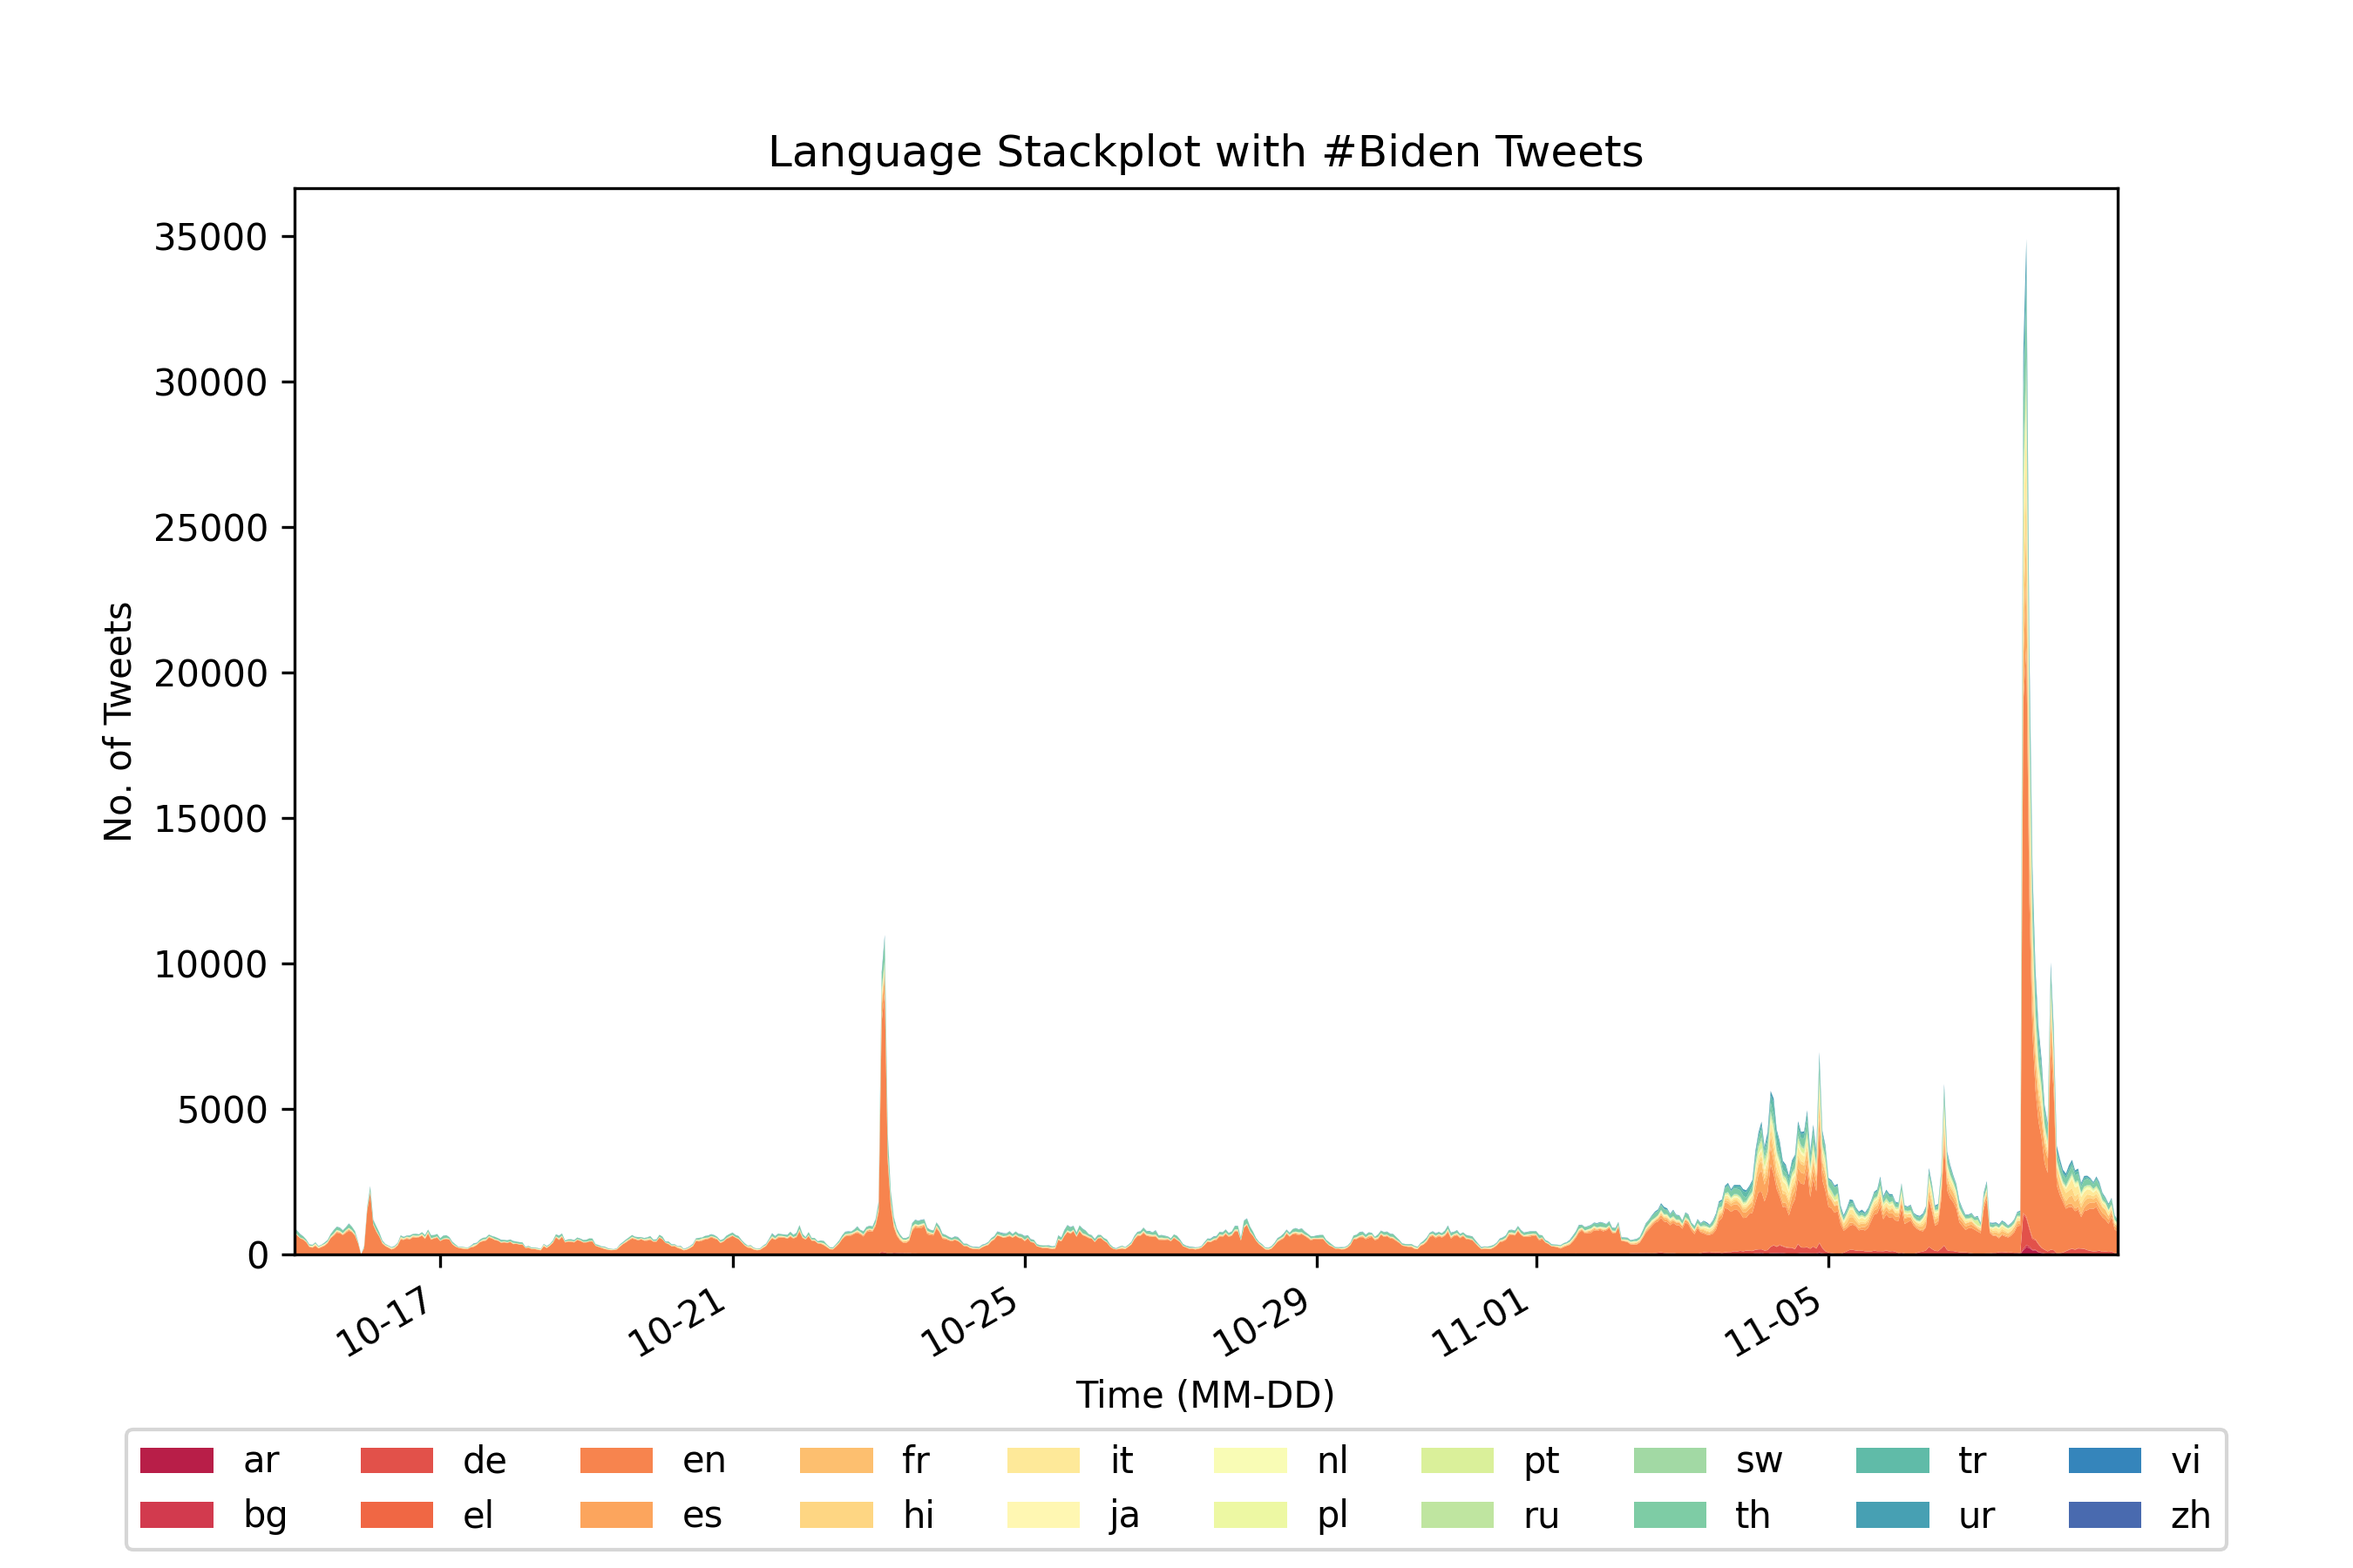
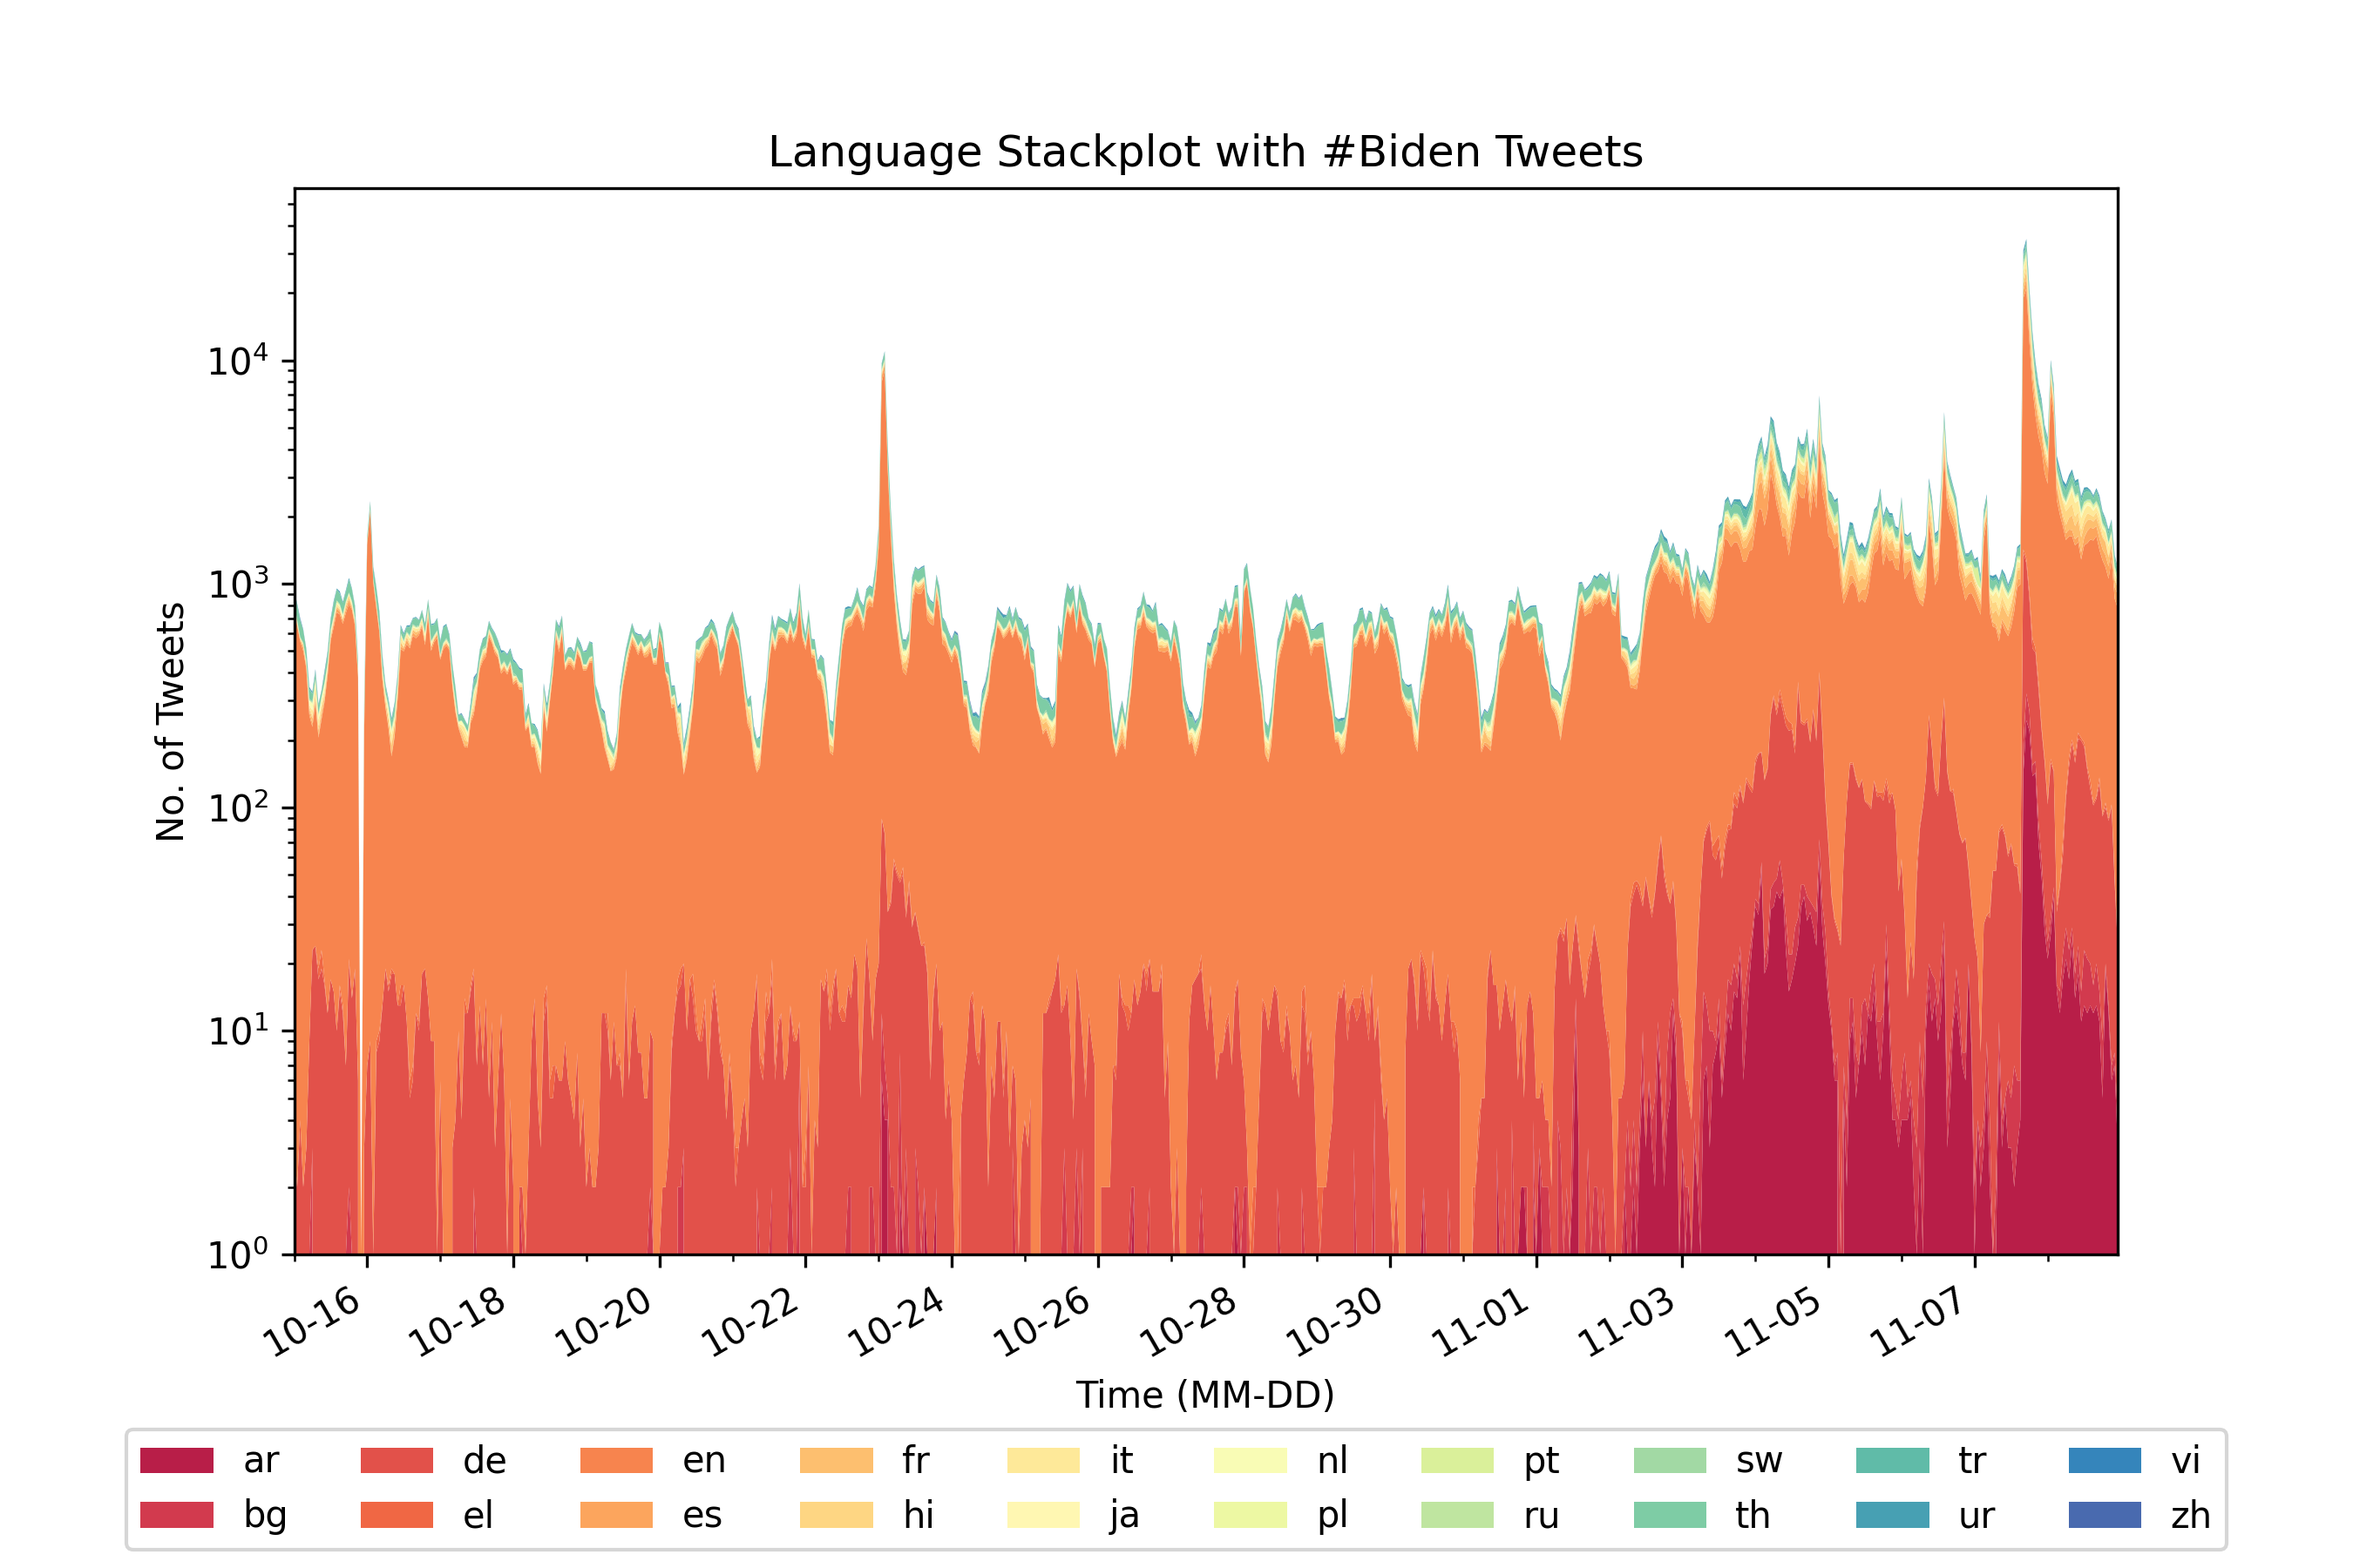
better x axis display

diff --git a/figure_generator.py b/figure_generator.py
@@ -8,7 +8,7 @@ from utils import load_data, CANDIDATES
 import numpy as np
 import pandas as pd
 import matplotlib.pyplot as plt
-from matplotlib.dates import DateFormatter
+from matplotlib.dates import DateFormatter, DayLocator
 import seaborn as sns
 
 
@@ -39,13 +39,18 @@ def save_stackplot(name: str, target: str, ylabel: str, x, **kwargs) -> None:
                  )
     ax.set_xlabel('Time (MM-DD)')
     ax.set_xlim(x[0], x[-1])
+    ax.xaxis.set_major_locator(DayLocator(interval=2))
+    ax.xaxis.set_minor_locator(DayLocator(interval=1))
+    ax.xaxis.set_major_formatter(DateFormatter('%m-%d'))
+    fig.autofmt_xdate()
 
     if ylabel == 'percentage':
         ax.set_ylabel('Percentage (%)')
         ax.set_ylim(0, 100)
     elif ylabel == 'quantity':
         ax.set_ylabel('No. of Tweets')
-        ax.set_ylim(0)
+        ax.set_ylim(1)
+        ax.set_yscale('log')
     else:
         ax.set_ylabel(ylabel)
         ax.set_ylim(0)
@@ -54,8 +59,6 @@ def save_stackplot(name: str, target: str, ylabel: str, x, **kwargs) -> None:
         f' with #{name.title()} Tweets')
 
     fig.legend(loc='outside lower center', ncols=min(10, len(kwargs)))
-    ax.xaxis.set_major_formatter(DateFormatter('%m-%d'))
-    fig.autofmt_xdate()
 
     fig.savefig(f"figures/{ylabel}/{name}/{target}.png")
     fig.clear()
